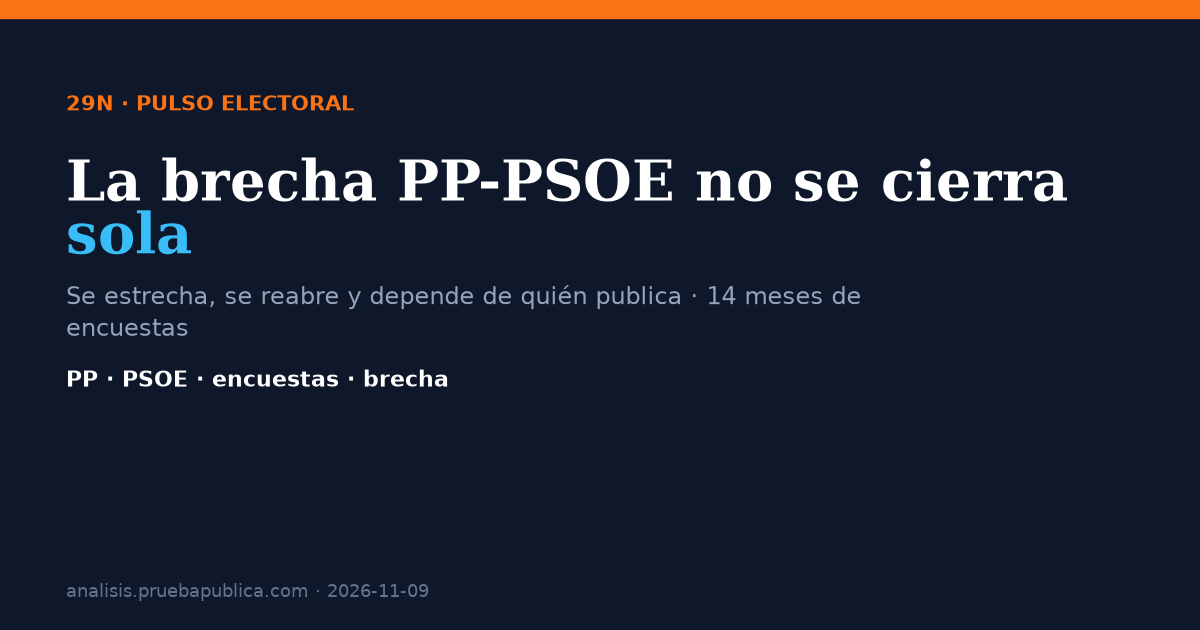
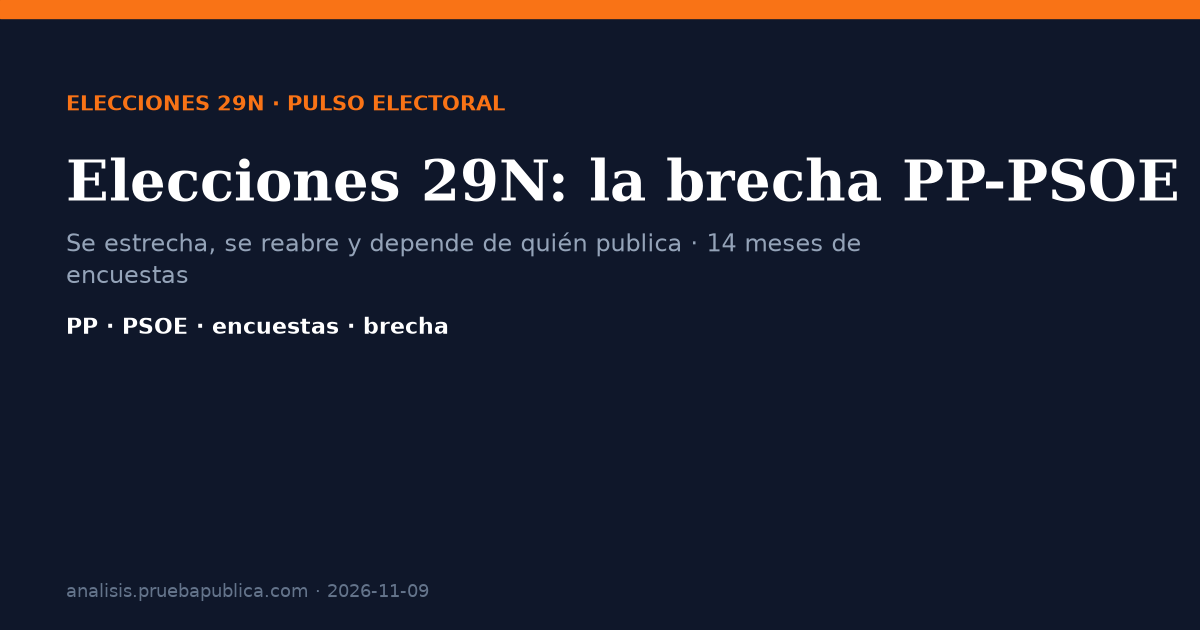
post: titulo con 29N y difusion social

diff --git a/src/content/posts/brecha-pp-psoe-no-se-cierra-sola.md b/src/content/posts/brecha-pp-psoe-no-se-cierra-sola.md
@@ -1,6 +1,6 @@
 ---
-title: "La brecha PP-PSOE no se cierra sola: se estrecha, se reabre y depende de quién publica"
-description: "La distancia entre PP y PSOE no sigue una línea: se estrechó a mediados de octubre y volvió a abrirse en noviembre. Qué muestran 14 meses de encuestas y qué no permiten concluir."
+title: "Elecciones 29N: la brecha PP-PSOE se estrecha, se reabre y depende de quién publica"
+description: "La distancia entre PP y PSOE en las elecciones del 29N no sigue una línea: se estrechó a mediados de octubre y volvió a abrirse en noviembre. Qué muestran 14 meses de encuestas y qué no permiten concluir."
 pubDate: 2026-11-09
 author: "M. Castillo"
 assisted: "GenAI (cálculo, contraste y redacción asistida)"
@@ -24,7 +24,7 @@ faq:
 serie: "Pulso electoral"
 serie_numero: 1
 draft: false
-no_social: true
+no_social: false
 ---
 
 La distancia entre PP y PSOE no sigue una línea recta. En las últimas semanas se estrechó, después volvió a abrirse. Los datos permiten poner fecha al movimiento y comprobar si es robusto. No permiten decir que un acontecimiento concreto lo haya causado.
